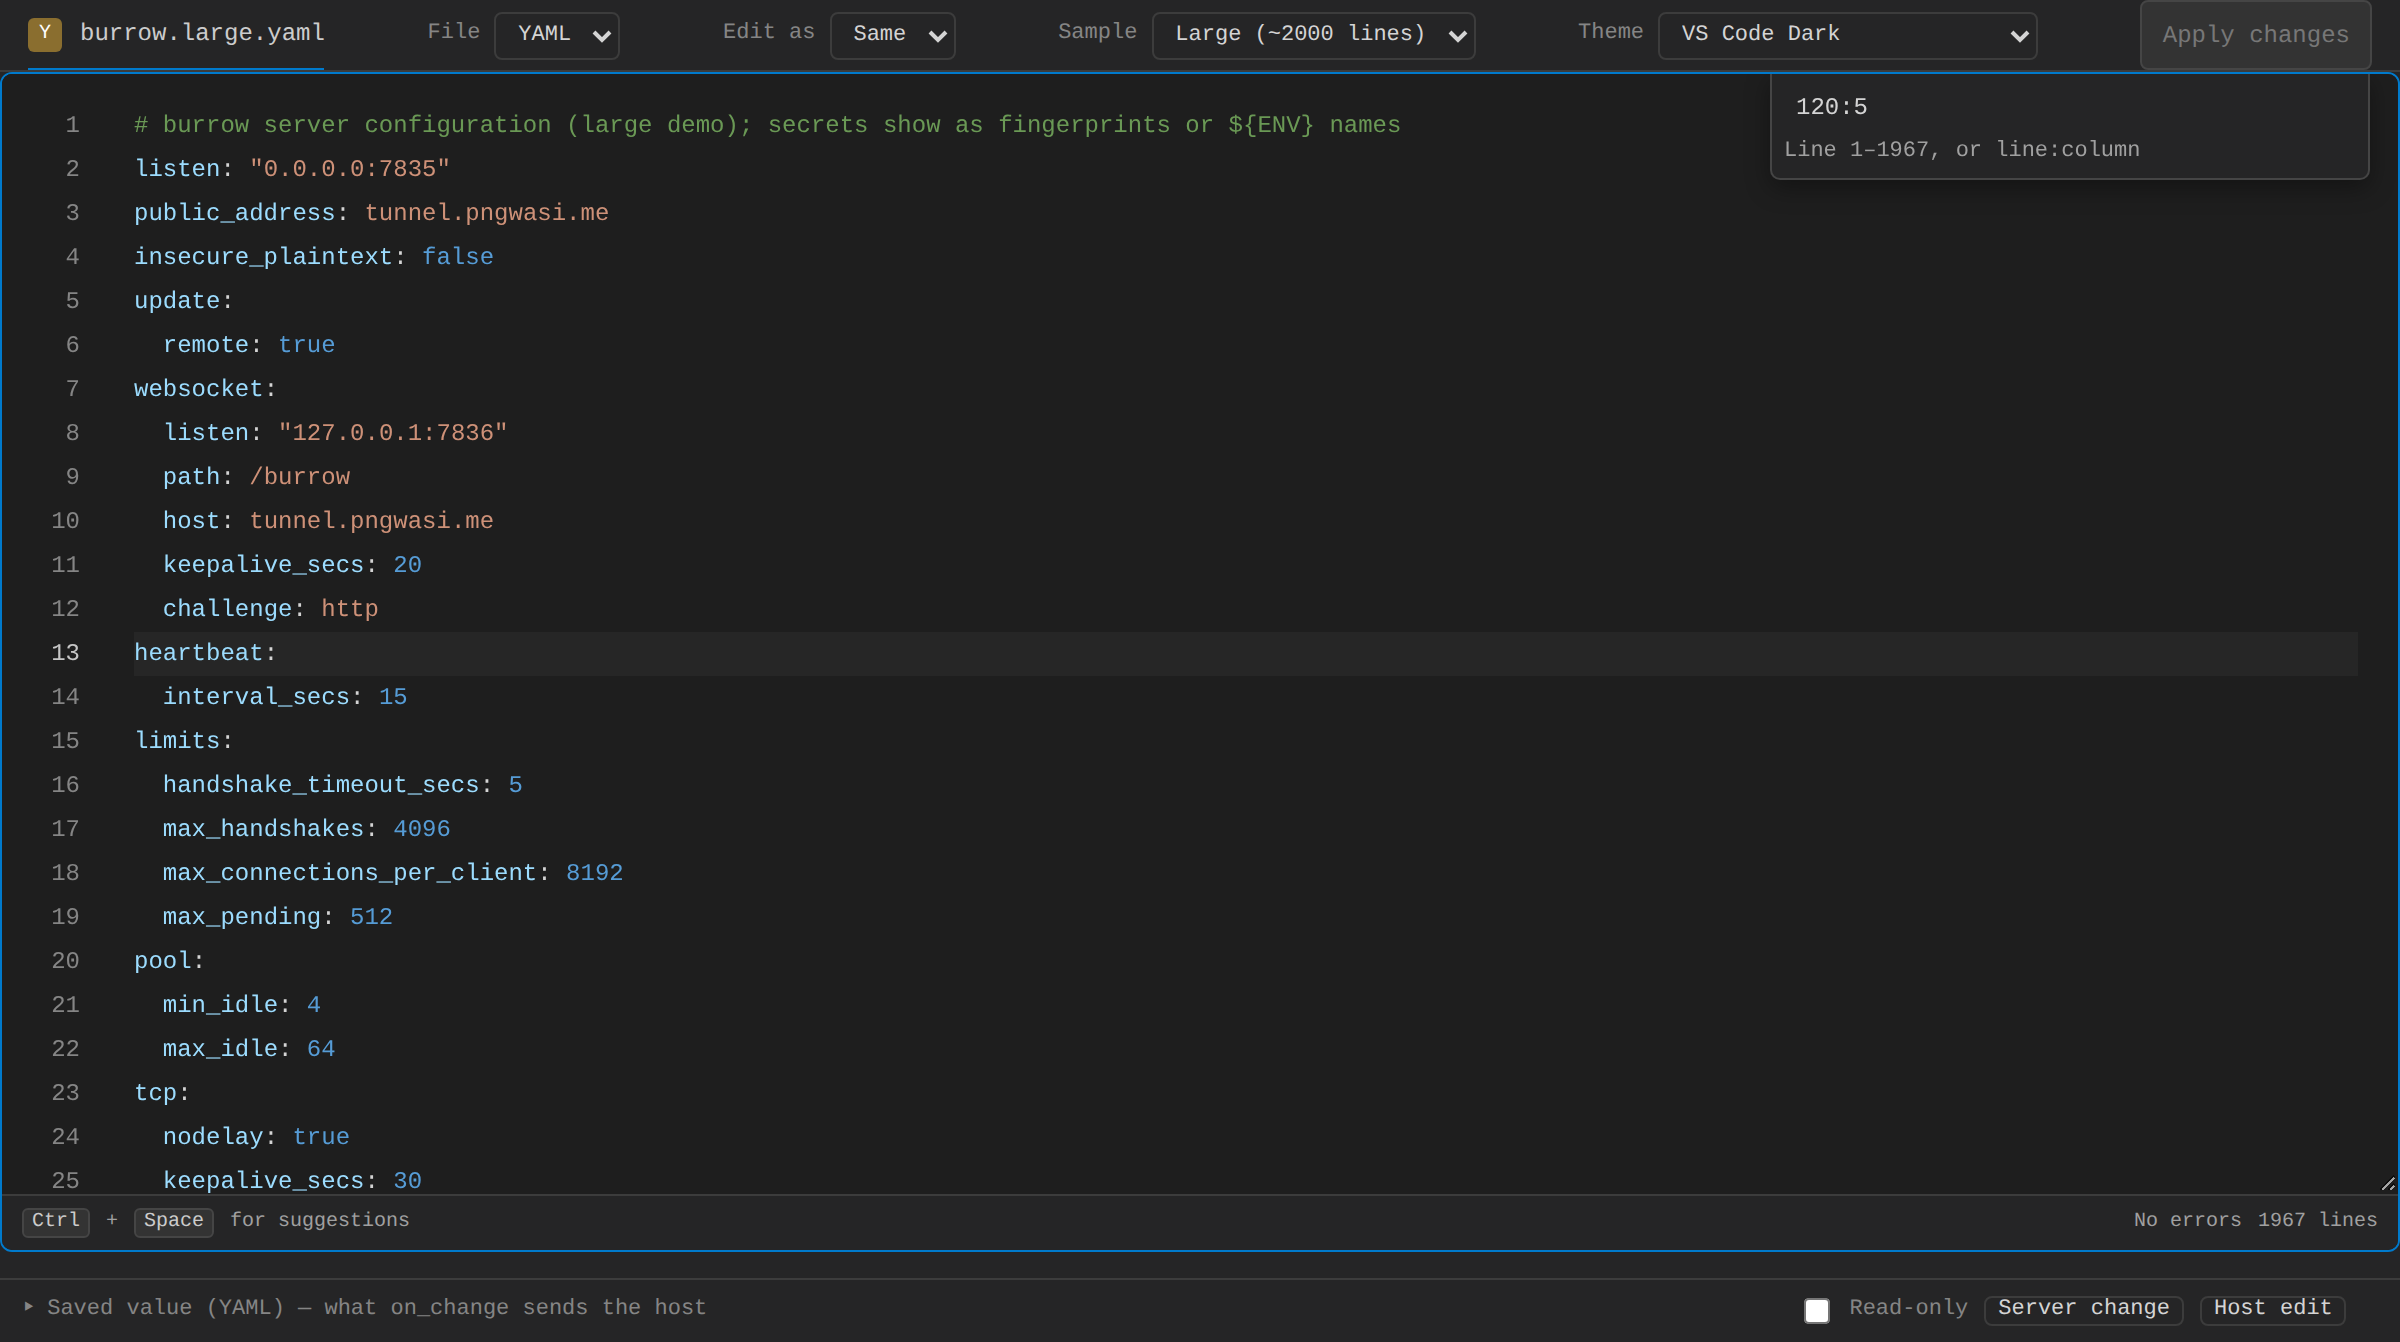
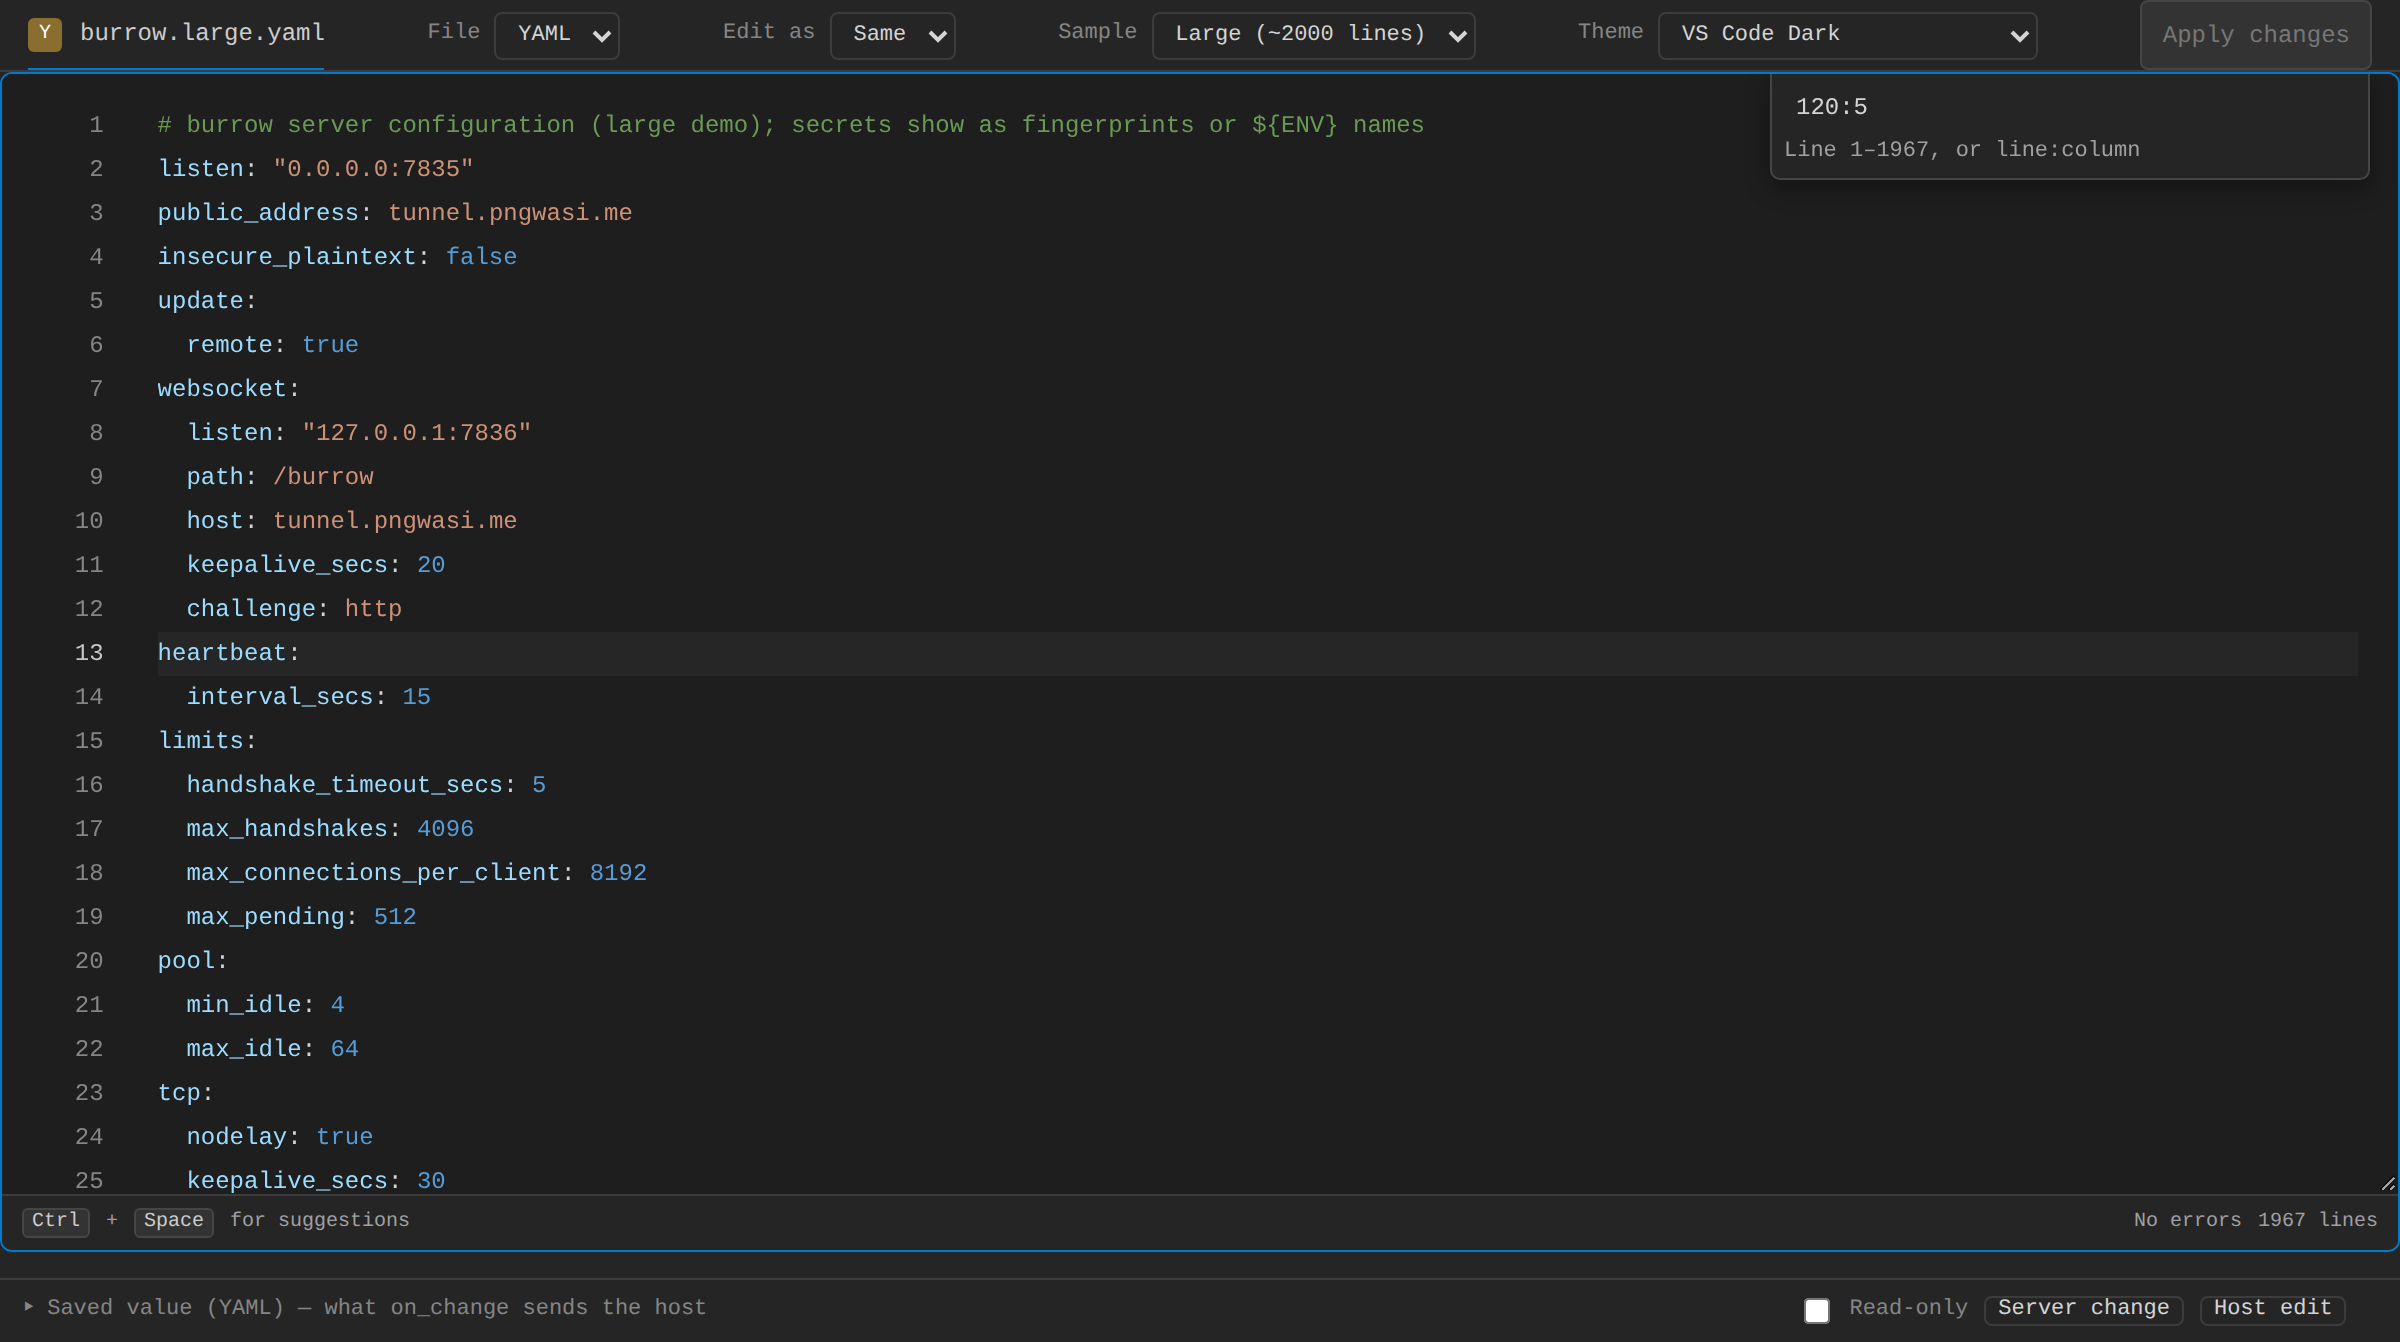
Gutter: a marker column so locks, keys and the problem dot keep a gap from the edge and clear the line number, width from the line count's digits; screenshots refreshed

Changed region(s): [[0.0312, 0.0917, 0.2812, 0.886], [0.25, 0.0917, 0.5938, 0.1222]]

diff --git a/crates/config-editor-leptos/src/preset.css b/crates/config-editor-leptos/src/preset.css
@@ -226,7 +226,15 @@
   position: relative;
   z-index: 5;
   background: var(--config-editor-bg);
-  width: 52px;
+  /* A column for the markers (a lock or key, then the problem dot), the
+     longest line number (`--config-editor-gutter-digits`, set from the line
+     count, at least 3), then the padding before the text. */
+  --config-editor-marker-column: 22px;
+  --config-editor-gutter-padding: 13px;
+  width: calc(
+    var(--config-editor-marker-column) + var(--config-editor-gutter-digits, 3) * 1ch +
+      var(--config-editor-gutter-padding)
+  );
   flex: 0 0 auto;
   /* Its rows never size it: it stretches to the textarea, so resizing the
      textarea (or a short document) sets the editor's height. */
@@ -234,7 +242,8 @@
   align-self: stretch;
   min-height: 0;
   overflow: hidden;
-  padding: var(--config-editor-padding-top) 13px var(--config-editor-padding-bottom) 0;
+  padding: var(--config-editor-padding-top) var(--config-editor-gutter-padding)
+    var(--config-editor-padding-bottom) 0;
   color: var(--config-editor-line-number);
   text-align: right;
   user-select: none;
@@ -255,7 +264,7 @@
 .config-editor__line-number-error::before {
   position: absolute;
   top: 8px;
-  left: 8px;
+  left: calc(var(--config-editor-marker-column) - 7px);
   width: 5px;
   height: 5px;
   border-radius: 50%;
@@ -267,7 +276,7 @@
 .config-editor__lock-marker {
   position: absolute;
   top: calc(50% - 5px);
-  left: 0;
+  left: calc(var(--config-editor-marker-column) - 18px);
   width: 9px;
   height: 10px;
   background: var(--config-editor-locked);
@@ -279,7 +288,7 @@
 .config-editor__secret-marker {
   position: absolute;
   top: calc(50% - 5px);
-  left: 0;
+  left: calc(var(--config-editor-marker-column) - 18px);
   width: 10px;
   height: 10px;
   background: var(--config-editor-secret-chip-border);
@@ -548,8 +557,11 @@
    hovered (always on touch screens and on folded lines). */
 .config-editor__gutter.config-editor__gutter-folding {
   --config-editor-fold-gutter: 14px;
-  width: calc(52px + var(--config-editor-fold-gutter));
-  padding-right: calc(13px + var(--config-editor-fold-gutter));
+  width: calc(
+    var(--config-editor-marker-column) + var(--config-editor-gutter-digits, 3) * 1ch +
+      var(--config-editor-gutter-padding) + var(--config-editor-fold-gutter)
+  );
+  padding-right: calc(var(--config-editor-gutter-padding) + var(--config-editor-fold-gutter));
 }
 
 .config-editor__fold-toggle {
@@ -1417,10 +1429,9 @@
 
 @media (max-width: 600px) {
   .config-editor__toolbar { padding: 0 10px; }
-  .config-editor__gutter { width: 40px; padding-right: 10px; }
-  .config-editor__gutter.config-editor__gutter-folding {
-    width: calc(40px + var(--config-editor-fold-gutter));
-    padding-right: calc(10px + var(--config-editor-fold-gutter));
+  .config-editor__gutter {
+    --config-editor-marker-column: 21px;
+    --config-editor-gutter-padding: 10px;
   }
   .config-editor__schema-state { font-size: 0; }
   .config-editor__status-meta { gap: 5px; }

diff --git a/crates/config-editor-leptos/src/editor/components/gutter.rs b/crates/config-editor-leptos/src/editor/components/gutter.rs
@@ -15,16 +15,10 @@ pub(crate) fn Gutter(state: EditorState, rows: LineRows) -> impl IntoView {
         <div
             class="config-editor__gutter"
             class:config-editor__gutter-folding=state.config.features.folding
-            // Wide enough for the longest line number beside the diagnostic
-            // dot (52px fits four digits) and the fold chevrons.
-            style:width=move || {
-                let digits = state.doc.text.with(|text| line_count(text)).to_string().len();
-                (digits > 4).then(|| {
-                    format!(
-                        "calc(52px + var(--config-editor-fold-gutter, 0px) + {}ch)",
-                        digits - 4
-                    )
-                })
+            // As wide as the longest line number (at least three digits);
+            // the stylesheet adds the marker column and the padding.
+            style:--config-editor-gutter-digits=move || {
+                state.doc.text.with(|text| line_count(text)).to_string().len().max(3).to_string()
             }
         >
             <div
